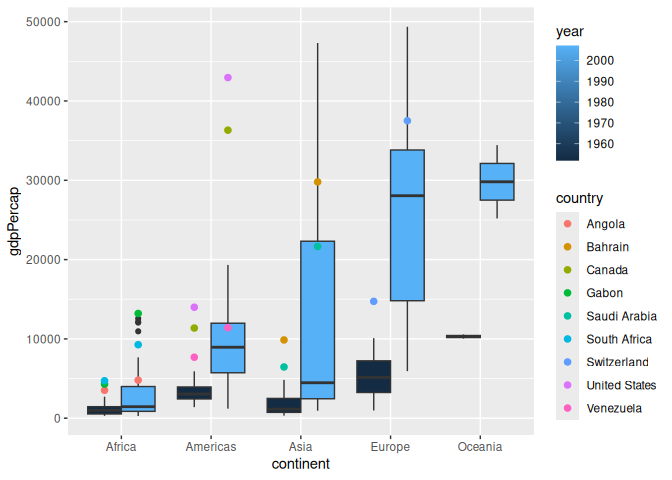
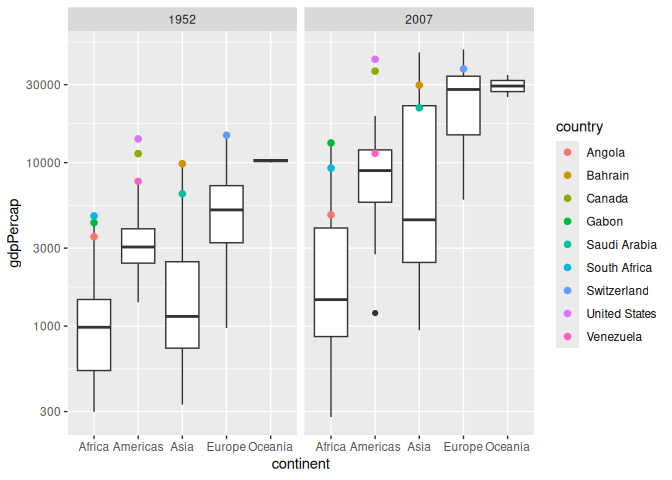
Challenge Corrections

diff --git a/data-science-curriculum-build/data-science-curriculum-build/challenges/c04-gapminder-assignment.md b/data-science-curriculum-build/data-science-curriculum-build/challenges/c04-gapminder-assignment.md
@@ -131,8 +131,12 @@ gapminder%>%glimpse()
 
 ``` r
 ## TASK: Find the largest and smallest values of `year` in `gapminder`
-year_max <- gapminder %>% pull(year) %>% max()
-year_min <- gapminder %>% pull(year) %>% min()
+year_max <- gapminder %>% 
+  summarize(max(year)) %>% 
+  pull()
+year_min <- gapminder %>% 
+  summarize(min(year)) %>% 
+  pull()
 year_max
 ```
 
@@ -215,6 +219,26 @@ gapminder %>%
 
 ![](c04-gapminder-assignment_files/figure-gfm/q2-task-2.png)<!-- -->
 
+``` r
+gapminder%>%filter(country == "Kuwait")
+```
+
+    ## # A tibble: 12 × 6
+    ##    country continent  year lifeExp     pop gdpPercap
+    ##    <fct>   <fct>     <int>   <dbl>   <int>     <dbl>
+    ##  1 Kuwait  Asia       1952    55.6  160000   108382.
+    ##  2 Kuwait  Asia       1957    58.0  212846   113523.
+    ##  3 Kuwait  Asia       1962    60.5  358266    95458.
+    ##  4 Kuwait  Asia       1967    64.6  575003    80895.
+    ##  5 Kuwait  Asia       1972    67.7  841934   109348.
+    ##  6 Kuwait  Asia       1977    69.3 1140357    59265.
+    ##  7 Kuwait  Asia       1982    71.3 1497494    31354.
+    ##  8 Kuwait  Asia       1987    74.2 1891487    28118.
+    ##  9 Kuwait  Asia       1992    75.2 1418095    34933.
+    ## 10 Kuwait  Asia       1997    76.2 1765345    40301.
+    ## 11 Kuwait  Asia       2002    76.9 2111561    35110.
+    ## 12 Kuwait  Asia       2007    77.6 2505559    47307.
+
 **Observations**:
 
 - Oceania displays the highest average GDP per capita, but it also has
@@ -230,8 +254,13 @@ gapminder %>%
   made it very hard to find observations otherwise. To solve, this, I
   isolated that data point to see which country it was. It turned out to
   be Kuwait, and when I looked up Kuwaits gdp percapita was in 1952, I
-  found that it wasn’t even tracked until 1962. This means I could
-  filter it out from my graph.
+  found that it wasn’t even tracked until 1962 when I looked at a couple
+  different datasets (<https://statbase.org/data/kwt-gdp-per-capita/>)
+  (<https://www.macrotrends.net/global-metrics/countries/kwt/kuwait/gdp-per-capita>).
+  The numbers were also WAY different. I think that this gapminder
+  dataset has incorrect values for Kuwait. Someone else on github also
+  found this issue: <https://github.com/jennybc/gapminder/issues/9>.
+  This means I could filter it out from my graph.
 - I chose a boxplot because boxplots give me a lot more information to
   look at rather than just raw points. Seeing each quartile allowed me
   to make more observations about trends and which values are truly
@@ -242,12 +271,19 @@ gapminder %>%
 ``` r
 library(ggrepel)
 ## TASK: Identify the outliers from q2
-outlier_africa <- gapminder %>% filter(continent == "Africa", gdpPercap > 3000, year == year_min)
-outlier_americas <- gapminder %>% filter(continent == "Americas", gdpPercap > 7500, year == year_min)
-outlier_asia <- gapminder %>% filter(continent == "Asia", gdpPercap > 5000 & gdpPercap < 100000, year == year_min)
-outlier_europe <- gapminder %>% filter(continent == "Europe", gdpPercap > 12500, year == year_min)
-combined <- rbind(outlier_africa, outlier_americas, outlier_asia, outlier_europe)
-combined
+outlier_africa <- gapminder %>% 
+  filter(continent == "Africa", gdpPercap > 3000, year == year_min)
+
+outlier_americas <- gapminder %>% 
+  filter(continent == "Americas", gdpPercap > 7500, year == year_min)
+
+outlier_asia <- gapminder %>% 
+  filter(continent == "Asia", gdpPercap > 5000 & gdpPercap < 100000, year == year_min)
+
+outlier_europe <- gapminder %>% 
+  filter(continent == "Europe", gdpPercap > 12500, year == year_min)
+
+rbind(outlier_africa, outlier_americas, outlier_asia, outlier_europe)
 ```
 
     ## # A tibble: 9 × 6
@@ -303,11 +339,8 @@ gapminder %>%
   filter(
     year == year_max | year == year_min,
     gdpPercap < 100000) %>%
-  ggplot(aes(continent, gdpPercap, group = str_c(year, continent))) +
-  geom_boxplot(
-    aes(fill = year),
-    position = "dodge"
-  ) + 
+  ggplot(aes(continent, gdpPercap, group = str_c(continent))) +
+  geom_boxplot() + 
   geom_point(
     data = . %>% filter(
       country %in% c("Angola", "Gabon", "South Africa", "Canada", "United States", "Venezuela", "Bahrain", "Saudi Arabia", "Switzerland"),
@@ -315,7 +348,9 @@ gapminder %>%
     mapping = aes(color = country),
     size = 2,
     position = position_dodge(width = 0.75)
-  )
+  ) +
+  scale_y_log10()+
+  facet_wrap(vars(year))
 ```
 
 ![](c04-gapminder-assignment_files/figure-gfm/q4-task-1.png)<!-- -->
@@ -376,51 +411,42 @@ gapminder %>%
 
 ``` r
 ## TASK: Your second graph
-quartiles <- gapminder %>%
+m_africa <- gapminder %>%
+  filter(continent == "Africa") %>%
   group_by(year) %>%
-  summarize(
-    bottom = quantile(lifeExp, 0),
-    quart1 = quantile(lifeExp, .25),
-    quart2 = quantile(lifeExp, .5),
-    quart3 = quantile(lifeExp, .75),
-    top = quantile(lifeExp, 1)
-  ) %>%
-  pivot_longer(
-    names_to = "quartile",
-    values_to = "lifeExp",
-    cols = -year
-  )
-quartiles
+  summarize(mean_lifeExp = mean(lifeExp, na.rm = TRUE),
+            continent = "Africa")
+
+m_asia <- gapminder %>%
+  filter(continent == "Asia") %>%
+  group_by(year) %>%
+  summarize(mean_lifeExp = mean(lifeExp, na.rm = TRUE),
+            continent = "Asia")
+
+m_americas <- gapminder %>%
+  filter(continent == "Americas") %>%
+  group_by(year) %>%
+  summarize(mean_lifeExp = mean(lifeExp, na.rm = TRUE),
+            continent = "Americas")
+
+m_europe <- gapminder %>%
+  filter(continent == "Europe") %>%
+  group_by(year) %>%
+  summarize(mean_lifeExp = mean(lifeExp, na.rm = TRUE),
+            continent = "Europe")
+
+m_oceania <- gapminder %>%
+  filter(continent == "Oceania") %>%
+  group_by(year) %>%
+  summarize(mean_lifeExp = mean(lifeExp, na.rm = TRUE),
+            continent = "Oceania")
+
+lifeExp_by_continent <- rbind(m_africa, m_asia, m_americas, m_europe, m_oceania)
+
+lifeExp_by_continent %>% 
+  ggplot(aes(year, mean_lifeExp)) +
+  geom_line(aes(color = continent))
 ```
-
-    ## # A tibble: 60 × 3
-    ##     year quartile lifeExp
-    ##    <int> <chr>      <dbl>
-    ##  1  1952 bottom      28.8
-    ##  2  1952 quart1      39.1
-    ##  3  1952 quart2      45.1
-    ##  4  1952 quart3      59.8
-    ##  5  1952 top         72.7
-    ##  6  1957 bottom      30.3
-    ##  7  1957 quart1      41.2
-    ##  8  1957 quart2      48.4
-    ##  9  1957 quart3      63.0
-    ## 10  1957 top         73.5
-    ## # ℹ 50 more rows
-
-``` r
-gapminder %>% 
-  ggplot(aes(year, lifeExp)) +
-  geom_boxplot(aes(group = year)) +
-  geom_point(aes(color = continent)) +
-  geom_line(data = quartiles, aes(linetype = quartile), color = "blue", size = 1)
-```
-
-    ## Warning: Using `size` aesthetic for lines was deprecated in ggplot2 3.4.0.
-    ## ℹ Please use `linewidth` instead.
-    ## This warning is displayed once per session.
-    ## Call `lifecycle::last_lifecycle_warnings()` to see where this warning was
-    ## generated.
 
 ![](c04-gapminder-assignment_files/figure-gfm/q5-task2-1.png)<!-- -->
 
@@ -435,19 +461,13 @@ gapminder %>%
     ## 1 Rwanda  Africa     1992    23.6 7290203      737.
 
 - This graph tries to see if there is a difference in the life
-  expectancy growth between different quartiles.
-- The outlier in 1992 is Rwanda. At face value this can be explained by
-  their civil war ranging from 1990-1993, but according to a quick
-  google search the number of people it killed before 1992 was in the
-  thousands, maybe tens of thousands. However, Rwanda’s population at
-  that time was north of 7 million. This suggests that this could be
-  inaccurate data, and a google search supports that fact.
-- There doesn’t seem to be a major disparity in growth, except both the
-  0% line and the 25% line plateau after the 90s. There doesn’t seem to
-  be an easy answer to support why that is.
-- The median has experienced the most growth out of all the quartiles.
-  Life expectancy has gone up from ~45 to ~72.
-- African countries are overly represented in the bottom 2 quartiles.
+  expectancy growth between different continents.
+- There seems to be a clear divide between continents: Oceania -\>
+  Europe -\> Americas -\> Asia -\> Africa.
+- The gap seems to only be getting wider between africa and the 4 other
+  continent groups. The 4 content groups seem to have, in general,
+  converged, but Africa has plateaued since 1987 to the point where its
+  considered an outlier by R in a dataset of 5.
 
 ``` r
 ## TASK: Your third graph
@@ -519,8 +539,8 @@ gapminder %>%
 
 ![](c04-gapminder-assignment_files/figure-gfm/q5-task3-1.png)<!-- -->
 
-- Since Africa being grouped together in the bottom 50% of our data for
-  our other two graphs, I wanted to take a little bit of a closer look.
+- Since Africa seems to be much lower than the other continents in the
+  previous graph, I wanted to take a closer look at just Africa.
 - The two countries that appear at the top of life expectancy for Africa
   are Reunion and Mauritius which are both tiny islands off the coast of
   Madagascar. Both of these populations are around 1 million, and they
@@ -529,6 +549,14 @@ gapminder %>%
   Rwanda, Zambia, and Swaziland (Eswatini). I wanted to see if there was
   some geographical trend between the lowest life expectancy but I
   didn’t see any.
+- The outlier in 1992 is Rwanda, and this value seems much lower than
+  all of the others. At face value this can be explained by their civil
+  war ranging from 1990-1993, but according to a quick google search the
+  number of people it killed before 1992 was in the thousands, maybe
+  tens of thousands. However, Rwanda’s population at that time was north
+  of 7 million. This suggests that this could be inaccurate data, and a
+  google search supports that fact. This in addition to the Kuwait issue
+  is something I can’t explain.
 - Another cause I hypothesized was the decolonization period that led to
   a lot of civil wars could explain the difference, but all of these
   countries had civil wars around the same time (1960s-1970s), so that
